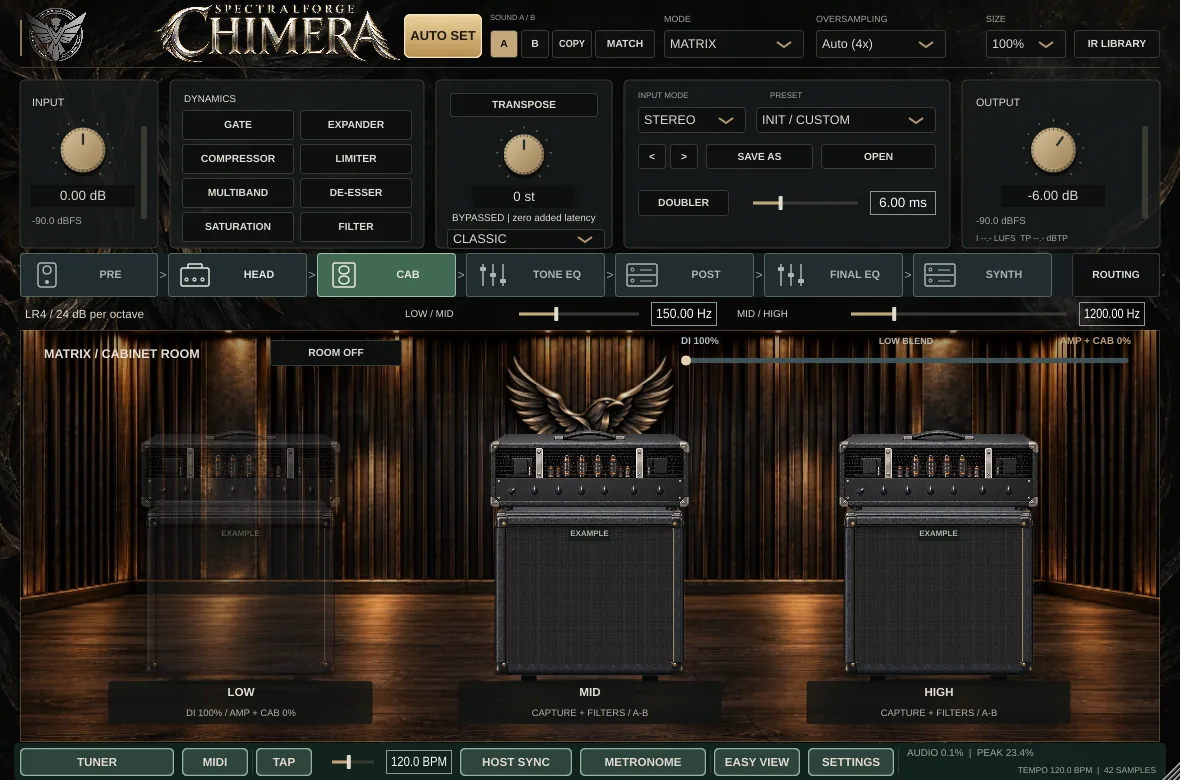
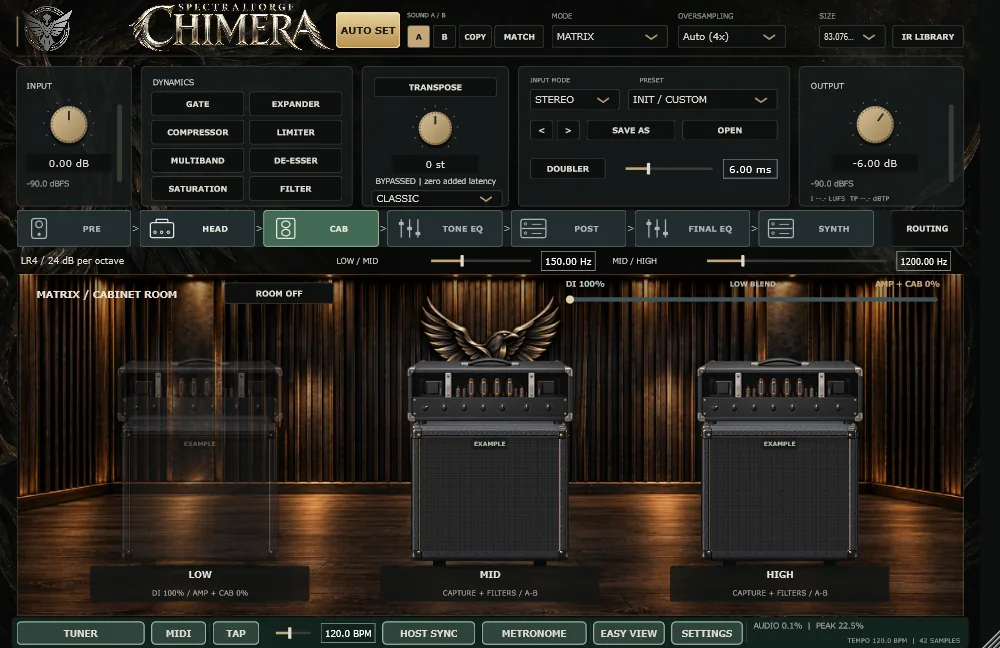
Chimera pages: standalone OBS filter downloads and 1.4.1 screenshots
Add an "OBS filter on its own" section (EN/KO/DE) linking the macOS
Universal and Linux x86_64 OBS filter packages and their checksums,
now attached to the v1.4.1-beta.1 release, with the Linux, editor and
notarization requirements. Replace the Matrix amps, cabinet room and
POST rack screenshots with the ones the v1.4.1-beta.1 release build
(6bc7216c) captured; the SYNTH page is unchanged since 1.4.0.

Claude-Session: https://claude.ai/code/session_01YHbPd9oRfent6QCH5bGzPD

diff --git a/chimera/ko.html b/chimera/ko.html
@@ -46,6 +46,13 @@ nav.lang a{border:1px solid var(--line);border-radius:6px;padding:8px 14px;text-
 <p><a href="https://github.com/raven-deadwire/SpectralForge-Chimera-Amp-Matrix/releases/download/v1.4.1-beta.1/MANUAL.html">설명서 (EN/DE/KO)</a> · <a href="https://github.com/raven-deadwire/SpectralForge-Chimera-Amp-Matrix/releases/tag/v1.4.1-beta.1">릴리즈 노트와 체크섬</a></p>
 <p>설치 전에 Chimera와 DAW를 종료하세요. 프로젝트, 프리셋, 개인 IR은 유지됩니다.</p>
 
+<h2>OBS 필터만 설치</h2>
+<p>위 설치 파일에는 OBS Studio 필터가 선택 설치 항목으로 이미 들어 있습니다(Windows는 Windows 설치기에 포함). 필터만 추가하려면 아래 패키지를 받아 OBS를 종료한 뒤 압축을 푼 폴더에서 <code>./install.sh</code>를 실행하세요. Chimera VST3가 설치되어 있어야 합니다.</p>
+<div class="dl">
+<a href="https://github.com/raven-deadwire/SpectralForge-Chimera-Amp-Matrix/releases/download/v1.4.1-beta.1/chimera-obs-macos-universal-5bbc2715df.zip">macOS용 OBS 필터 (Universal, macOS 12 이상)<small>chimera-obs-macos-universal-5bbc2715df.zip</small></a><a href="https://github.com/raven-deadwire/SpectralForge-Chimera-Amp-Matrix/releases/download/v1.4.1-beta.1/chimera-obs-linux-x86_64-5bbc2715df.tar.gz">Linux x86_64용 OBS 필터<small>chimera-obs-linux-x86_64-5bbc2715df.tar.gz</small></a>
+</div>
+<p>Linux는 배포판 패키지로 설치한 OBS(Flatpak·Snap 미지원)와 glibc 2.38 이상이 필요하고, 에디터 창은 X11(Wayland에서는 XWayland)이 필요합니다. macOS 모듈은 아직 Apple 공증 전입니다. <a href="https://github.com/raven-deadwire/SpectralForge-Chimera-Amp-Matrix/releases/download/v1.4.1-beta.1/chimera-obs-SHA256SUMS.txt">체크섬</a></p>
+
 <h2>라이선스 유효기간</h2>
 <div class="lic"><p>이 베타는 <strong>2027-05-31 23:59 KST</strong>(2027-05-31 14:59 UTC)까지 사용할 수 있습니다. SETTINGS에 남은 시간이 표시되고, 14일 전부터 경고합니다.</p><p>이미 열려 있는 인스턴스는 만료 후에도 계속 동작합니다. 만료 후 새로 연 인스턴스는 설정을 보존한 채 출력이 꺼집니다.</p><p>인증된 <strong>베타테스터 코드</strong>(SETTINGS → <em>Enter beta tester code...</em>)를 입력하면 그 컴퓨터에서 만료가 무기한 해제됩니다.</p></div>
 
@@ -57,7 +64,7 @@ nav.lang a{border:1px solid var(--line);border-radius:6px;padding:8px 14px;text-
 
 <h2>스크린샷</h2>
 <div class="shots">
-<figure><img src="img/matrix-amps.webp" width="1180" height="780" loading="lazy" alt="Matrix 모드: 앰프 레인 3개"><figcaption>Matrix 모드: 앰프 레인 3개</figcaption></figure><figure><img src="img/cabinet-room.webp" width="1180" height="780" loading="lazy" alt="캐비닛 룸"><figcaption>캐비닛 룸</figcaption></figure><figure><img src="img/post-rack.webp" width="1180" height="780" loading="lazy" alt="POST 랙"><figcaption>POST 랙</figcaption></figure><figure><img src="img/synth.webp" width="1180" height="780" loading="lazy" alt="SYNTH 페이지"><figcaption>SYNTH 페이지</figcaption></figure>
+<figure><img src="img/matrix-amps.webp" width="1180" height="780" loading="lazy" alt="Matrix 모드: 앰프 레인 3개"><figcaption>Matrix 모드: 앰프 레인 3개</figcaption></figure><figure><img src="img/cabinet-room.webp" width="1000" height="648" loading="lazy" alt="캐비닛 룸"><figcaption>캐비닛 룸</figcaption></figure><figure><img src="img/post-rack.webp" width="1180" height="780" loading="lazy" alt="POST 랙"><figcaption>POST 랙</figcaption></figure><figure><img src="img/synth.webp" width="1180" height="780" loading="lazy" alt="SYNTH 페이지"><figcaption>SYNTH 페이지</figcaption></figure>
 </div>
 <p><small>1.4.0-beta.1 소스에서 캡처(Linux, 100%).</small></p>
 

diff --git a/chimera/de.html b/chimera/de.html
@@ -46,6 +46,13 @@ nav.lang a{border:1px solid var(--line);border-radius:6px;padding:8px 14px;text-
 <p><a href="https://github.com/raven-deadwire/SpectralForge-Chimera-Amp-Matrix/releases/download/v1.4.1-beta.1/MANUAL.html">Handbuch (EN/DE/KO)</a> · <a href="https://github.com/raven-deadwire/SpectralForge-Chimera-Amp-Matrix/releases/tag/v1.4.1-beta.1">Versionshinweise und Prüfsummen</a></p>
 <p>Schließen Sie Chimera und Ihre DAW vor der Installation. Projekte, Presets und eigene IRs bleiben erhalten.</p>
 
+<h2>Nur der OBS-Filter</h2>
+<p>Die Installer oben enthalten den OBS-Studio-Filter bereits als optionalen Bestandteil (unter Windows im Windows-Installer). Wer nur den Filter hinzufügen möchte, installiert ihn mit diesen Paketen: OBS schließen, dann im entpackten Ordner <code>./install.sh</code> ausführen. Das Chimera-VST3 muss installiert sein.</p>
+<div class="dl">
+<a href="https://github.com/raven-deadwire/SpectralForge-Chimera-Amp-Matrix/releases/download/v1.4.1-beta.1/chimera-obs-macos-universal-5bbc2715df.zip">OBS-Filter für macOS (Universal, ab macOS 12)<small>chimera-obs-macos-universal-5bbc2715df.zip</small></a><a href="https://github.com/raven-deadwire/SpectralForge-Chimera-Amp-Matrix/releases/download/v1.4.1-beta.1/chimera-obs-linux-x86_64-5bbc2715df.tar.gz">OBS-Filter für Linux x86_64<small>chimera-obs-linux-x86_64-5bbc2715df.tar.gz</small></a>
+</div>
+<p>Linux benötigt OBS aus den Paketen der Distribution (Flatpak und Snap werden nicht unterstützt) und glibc 2.38 oder neuer; das Editorfenster braucht X11 (unter Wayland XWayland). Das macOS-Modul ist noch nicht notarisiert. <a href="https://github.com/raven-deadwire/SpectralForge-Chimera-Amp-Matrix/releases/download/v1.4.1-beta.1/chimera-obs-SHA256SUMS.txt">Prüfsummen</a></p>
+
 <h2>Lizenzzeitraum</h2>
 <div class="lic"><p>Diese Beta darf bis <strong>31.05.2027, 23:59 KST</strong> (31.05.2027, 14:59 UTC) verwendet werden. SETTINGS zeigt die verbleibende Zeit; 14 Tage vorher erscheint eine Warnung.</p><p>Bereits geöffnete Instanzen laufen nach dem Ablauf weiter. Danach geöffnete Instanzen behalten ihren Zustand, die Ausgabe ist stumm.</p><p>Ein bestätigter <strong>Beta-Tester-Code</strong> (SETTINGS → <em>Enter beta tester code...</em>) hebt den Ablauf auf diesem Computer unbefristet auf.</p></div>
 
@@ -57,7 +64,7 @@ nav.lang a{border:1px solid var(--line);border-radius:6px;padding:8px 14px;text-
 
 <h2>Screenshots</h2>
 <div class="shots">
-<figure><img src="img/matrix-amps.webp" width="1180" height="780" loading="lazy" alt="Matrix-Modus: drei Amp-Spuren"><figcaption>Matrix-Modus: drei Amp-Spuren</figcaption></figure><figure><img src="img/cabinet-room.webp" width="1180" height="780" loading="lazy" alt="Cabinet-Raum"><figcaption>Cabinet-Raum</figcaption></figure><figure><img src="img/post-rack.webp" width="1180" height="780" loading="lazy" alt="POST-Rack"><figcaption>POST-Rack</figcaption></figure><figure><img src="img/synth.webp" width="1180" height="780" loading="lazy" alt="SYNTH-Seite"><figcaption>SYNTH-Seite</figcaption></figure>
+<figure><img src="img/matrix-amps.webp" width="1180" height="780" loading="lazy" alt="Matrix-Modus: drei Amp-Spuren"><figcaption>Matrix-Modus: drei Amp-Spuren</figcaption></figure><figure><img src="img/cabinet-room.webp" width="1000" height="648" loading="lazy" alt="Cabinet-Raum"><figcaption>Cabinet-Raum</figcaption></figure><figure><img src="img/post-rack.webp" width="1180" height="780" loading="lazy" alt="POST-Rack"><figcaption>POST-Rack</figcaption></figure><figure><img src="img/synth.webp" width="1180" height="780" loading="lazy" alt="SYNTH-Seite"><figcaption>SYNTH-Seite</figcaption></figure>
 </div>
 <p><small>Aufgenommen aus dem 1.4.0-beta.1-Quellstand (Linux, 100 %).</small></p>
 

diff --git a/chimera/index.html b/chimera/index.html
@@ -46,6 +46,13 @@ nav.lang a{border:1px solid var(--line);border-radius:6px;padding:8px 14px;text-
 <p><a href="https://github.com/raven-deadwire/SpectralForge-Chimera-Amp-Matrix/releases/download/v1.4.1-beta.1/MANUAL.html">Manual (EN/DE/KO)</a> · <a href="https://github.com/raven-deadwire/SpectralForge-Chimera-Amp-Matrix/releases/tag/v1.4.1-beta.1">Release notes and checksums</a></p>
 <p>Close Chimera and your DAW before installing. Projects, presets and personal IRs are kept.</p>
 
+<h2>OBS filter on its own</h2>
+<p>The installers above already offer the OBS Studio filter as an optional item (on Windows it is part of the Windows installer). If you only want to add the filter, these packages install it on its own: close OBS, then run <code>./install.sh</code> from the unpacked folder. The Chimera VST3 must be installed.</p>
+<div class="dl">
+<a href="https://github.com/raven-deadwire/SpectralForge-Chimera-Amp-Matrix/releases/download/v1.4.1-beta.1/chimera-obs-macos-universal-5bbc2715df.zip">OBS filter for macOS (Universal, macOS 12+)<small>chimera-obs-macos-universal-5bbc2715df.zip</small></a><a href="https://github.com/raven-deadwire/SpectralForge-Chimera-Amp-Matrix/releases/download/v1.4.1-beta.1/chimera-obs-linux-x86_64-5bbc2715df.tar.gz">OBS filter for Linux x86_64<small>chimera-obs-linux-x86_64-5bbc2715df.tar.gz</small></a>
+</div>
+<p>Linux needs OBS from your distribution's packages (Flatpak and Snap are not supported) and glibc 2.38 or newer; the editor window needs X11 (XWayland under Wayland). The macOS module is not notarized yet. <a href="https://github.com/raven-deadwire/SpectralForge-Chimera-Amp-Matrix/releases/download/v1.4.1-beta.1/chimera-obs-SHA256SUMS.txt">Checksums</a></p>
+
 <h2>License period</h2>
 <div class="lic"><p>This beta is licensed for use until <strong>2027-05-31 23:59 KST</strong> (2027-05-31 14:59 UTC). SETTINGS shows the exact time left, and a warning appears 14 days before.</p><p>Instances already open keep running after expiry. Instances opened after expiry keep their state with the output muted.</p><p>A verified <strong>beta tester code</strong> (SETTINGS → <em>Enter beta tester code...</em>) lifts the expiry on that computer with no end date.</p></div>
 
@@ -57,7 +64,7 @@ nav.lang a{border:1px solid var(--line);border-radius:6px;padding:8px 14px;text-
 
 <h2>Screenshots</h2>
 <div class="shots">
-<figure><img src="img/matrix-amps.webp" width="1180" height="780" loading="lazy" alt="Matrix mode: three amp lanes"><figcaption>Matrix mode: three amp lanes</figcaption></figure><figure><img src="img/cabinet-room.webp" width="1180" height="780" loading="lazy" alt="Cabinet room"><figcaption>Cabinet room</figcaption></figure><figure><img src="img/post-rack.webp" width="1180" height="780" loading="lazy" alt="POST rack"><figcaption>POST rack</figcaption></figure><figure><img src="img/synth.webp" width="1180" height="780" loading="lazy" alt="SYNTH page"><figcaption>SYNTH page</figcaption></figure>
+<figure><img src="img/matrix-amps.webp" width="1180" height="780" loading="lazy" alt="Matrix mode: three amp lanes"><figcaption>Matrix mode: three amp lanes</figcaption></figure><figure><img src="img/cabinet-room.webp" width="1000" height="648" loading="lazy" alt="Cabinet room"><figcaption>Cabinet room</figcaption></figure><figure><img src="img/post-rack.webp" width="1180" height="780" loading="lazy" alt="POST rack"><figcaption>POST rack</figcaption></figure><figure><img src="img/synth.webp" width="1180" height="780" loading="lazy" alt="SYNTH page"><figcaption>SYNTH page</figcaption></figure>
 </div>
 <p><small>Captured from the 1.4.0-beta.1 source (Linux, 100%).</small></p>
 
